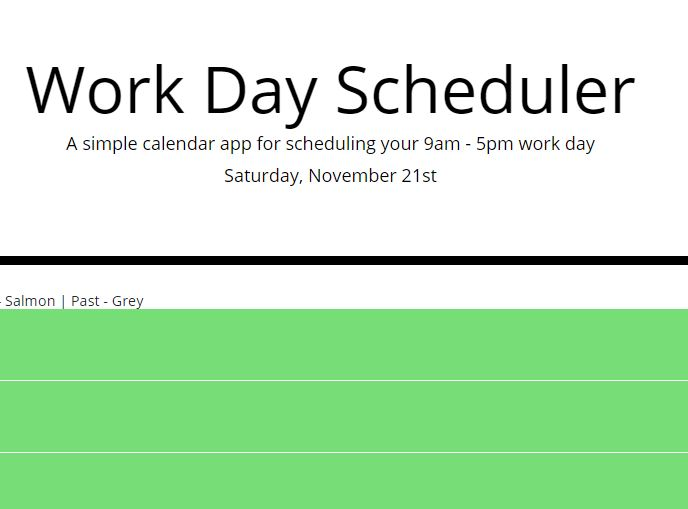
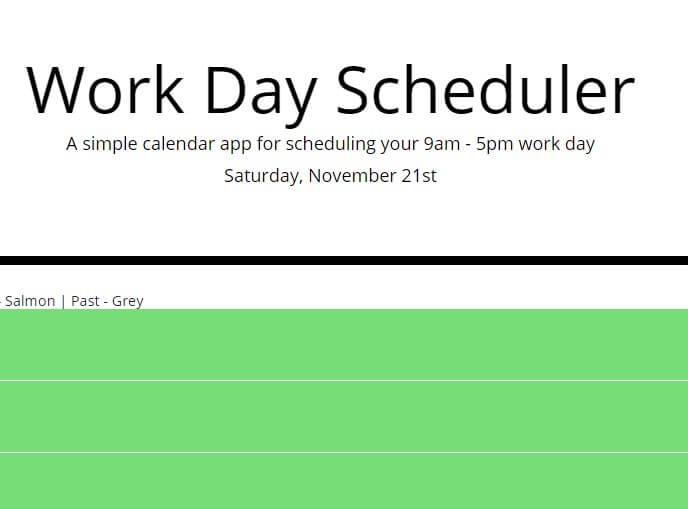
compressed pictures and made changes to links for that open new tabs

diff --git a/index.html b/index.html
@@ -1,98 +1,60 @@
 <!DOCTYPE html>
-<html lang="en-us">
+<html lang=en-us>
 
 <head>
-  <link rel="stylesheet" href="https://meyerweb.com/eric/tools/css/reset/reset.css">
-  <link rel="stylesheet" href="https://stackpath.bootstrapcdn.com/bootstrap/4.5.2/css/bootstrap.min.css"
-    integrity="sha384-JcKb8q3iqJ61gNV9KGb8thSsNjpSL0n8PARn9HuZOnIxN0hoP+VmmDGMN5t9UJ0Z" crossorigin="anonymous">
-  <link rel="stylesheet" href="assets/style.css">
-  <link href="https://fonts.googleapis.com/css2?family=Shrikhand&display=swap" rel="stylesheet">
-  <!-- Required meta tags -->
-  <meta charset="utf-8">
-  <meta name="viewport" content="width=device-width, initial-scale=1.0">
-  <title>WELCOME</title>
+    <link rel=stylesheet href=https://meyerweb.com/eric/tools/css/reset/reset.css>
+    <link rel=stylesheet href=https://stackpath.bootstrapcdn.com/bootstrap/4.5.2/css/bootstrap.min.css
+        integrity=sha384-JcKb8q3iqJ61gNV9KGb8thSsNjpSL0n8PARn9HuZOnIxN0hoP+VmmDGMN5t9UJ0Z crossorigin=anonymous>
+    <link rel=stylesheet href=assets/style.css>
+    <link href="https://fonts.googleapis.com/css2?family=Shrikhand&display=swap" rel=stylesheet>
+    <meta charset=utf-8>
+    <meta name=viewport content="width=device-width, initial-scale=1.0">
+    <title>WELCOME</title>
 </head>
 
 <body>
-  <!--NAVGATION BAR added ml-auto to have link on the right of the page-->
-  <nav class="navbar fixed-top navbar-expand-lg navbar-dark bg-info">
-    <!--have to add style to overide color bg for navbar-brand-->
-    <!-- <a class="navbar-brand" href="index.html"></a>
-    <button class="navbar-toggler" type="button" data-toggle="collapse" data-target="#navbarNavAltMarkup"
-      aria-controls="navbarNavAltMarkup" aria-expanded="false" aria-label="Toggle navigation">
-      <span class="navbar-toggler-icon"></span>
-    </button>
-    <div class="collapse navbar-collapse" id="navbarNavAltMarkup">
-      <div class="navbar-nav ml-auto">
-        <a class="nav-link" href="contact.html">CONTACT </a>
-        <a class="nav-link" href="portfolio.html">PORTFOLIO</a>
-        active class make sure user is in the current and active link
-        <a class="nav-link active" href="aboutme.html">ABOUT <span class="sr-only">(current)</span></a>
-        <a class="nav-link disabled" href="#" tabindex="-1" aria-disabled="true"></a>
-      </div>
-    </div>-->
-  </nav>
-  <!--CONTENT-->
-  <div class = "container welcome">
-    <h2>Hello! I'm<span>JR,</span></h2>
-    <span class ="text2">Take a Look Around</span>
-    <br>
-    <!--GLASSES ICON-->
-    <div class="dropdown">
-      <button class="dropbtn">
-        <svg xmlns="http://www.w3.org/2000/svg" width="50" height="50" fill="currentColor" class="bi bi-eyeglasses"
-          viewBox="0 0 16 16">
-          <path
-            d="M4 6a2 2 0 1 1 0 4 2 2 0 0 1 0-4zm2.625.547a3 3 0 0 0-5.584.953H.5a.5.5 0 0 0 0 1h.541A3 3 0 0 0 7 8a1 1 0 0 1 2 0 3 3 0 0 0 5.959.5h.541a.5.5 0 0 0 0-1h-.541a3 3 0 0 0-5.584-.953A1.993 1.993 0 0 0 8 6c-.532 0-1.016.208-1.375.547zM14 8a2 2 0 1 1-4 0 2 2 0 0 1 4 0z" />
-        </svg>
-        <div class="dropdown-content">
-          <a  href="aboutme.html">ABOUT ME </a>
-          <a href="portfolio.html">PORTFOLIO</a>
-          <a href="resume.html">RESUME</a>
+    <nav class="navbar fixed-top navbar-expand-lg navbar-dark bg-info">
+    </nav>
+    <div class="container welcome">
+        <h2>Hello! I'm<span>JR,</span></h2>
+        <span class=text2>Take a Look Around</span>
+        <br>
+        <div class=dropdown>
+            <button class=dropbtn>
+                <svg xmlns=http://www.w3.org/2000/svg width=50 height=50 fill=currentColor class="bi bi-eyeglasses"
+                    viewBox="0 0 16 16">
+                    <path
+                        d="M4 6a2 2 0 1 1 0 4 2 2 0 0 1 0-4zm2.625.547a3 3 0 0 0-5.584.953H.5a.5.5 0 0 0 0 1h.541A3 3 0 0 0 7 8a1 1 0 0 1 2 0 3 3 0 0 0 5.959.5h.541a.5.5 0 0 0 0-1h-.541a3 3 0 0 0-5.584-.953A1.993 1.993 0 0 0 8 6c-.532 0-1.016.208-1.375.547zM14 8a2 2 0 1 1-4 0 2 2 0 0 1 4 0z" />
+                </svg>
+                <div class=dropdown-content>
+                    <a href=aboutme.html>ABOUT ME </a>
+                    <a href=portfolio.html>PORTFOLIO</a>
+                    <a href=resume.html>RESUME</a>
+                </div>
+            </button>
         </div>
-      </button>
     </div>
-
-  </div>
-  
-
 </body>
-
-<!--FOOTER  -->
-<footer class="footer text-center fixed-bottom mt-auto bg-info ">
-  <div class="mt-1 navbar-dark bg-light">
-    <footer class="footer-copyright my-auto bg-info">&#169 Copyright
-      <a class="navbar-brand bg-info" href="https://github.com/Jruuuu/">
-        <img src="assets/images/GitHub-Mark-Light-32px.png" alt="github icon" loading="lazy">
-      </a>
-      <a class="navbar-brand bg-info" href="https://www.linkedin.com/in/enrilo-ugalde">
-        <img src="assets/images/LI-In-Bug.png" alt="linkedin icon" loading="lazy">
-      </a>
-      <a class="navbar-brand bg-info" href="https://www.instagram.com/jruuuu/">
-        <img src="assets/images/Instagram.png" alt="instagram icon" loading="lazy">
-      </a>
-    </footer>
-  </div>
+<footer class="footer text-center fixed-bottom mt-auto bg-info">
+    <div class="mt-1 navbar-dark bg-light">
+        <footer class="footer-copyright my-auto bg-info">&#169 Copyright
+            <a class="navbar-brand bg-info" href=https://github.com/Jruuuu target="_blank">
+            <img src=assets/images/GitHub-Mark-Light-32px.png alt="github icon" loading=lazy>
+            </a>
+            <a class="navbar-brand bg-info" href=https://www.linkedin.com/in/enrilo-ugalde target="_blank">
+                <img src=assets/images/LI-In-Bug.png alt="linkedin icon" loading=lazy>
+            </a>
+            <a class="navbar-brand bg-info" href=https://www.instagram.com/jruuuu target="_blank"> 
+            <img src=assets/images/Instagram.png alt="instagram icon" loading=lazy>
+            </a>
+        </footer>
+    </div>
 </footer>
-
-
-
-
-
-
-<!-- is required for drop menus -->
-<script src="https://code.jquery.com/jquery-3.5.1.slim.min.js"
-  integrity="sha384-DfXdz2htPH0lsSSs5nCTpuj/zy4C+OGpamoFVy38MVBnE+IbbVYUew+OrCXaRkfj" crossorigin="anonymous"></script>
-<script src="https://cdn.jsdelivr.net/npm/popper.js@1.16.1/dist/umd/popper.min.js"
-  integrity="sha384-9/reFTGAW83EW2RDu2S0VKaIzap3H66lZH81PoYlFhbGU+6BZp6G7niu735Sk7lN" crossorigin="anonymous"></script>
-<script src="https://stackpath.bootstrapcdn.com/bootstrap/4.5.2/js/bootstrap.min.js"
-  integrity="sha384-B4gt1jrGC7Jh4AgTPSdUtOBvfO8shuf57BaghqFfPlYxofvL8/KUEfYiJOMMV+rV" crossorigin="anonymous"></script>
-
-
-
-
-
-
-
+<script src=https://code.jquery.com/jquery-3.5.1.slim.min.js
+    integrity=sha384-DfXdz2htPH0lsSSs5nCTpuj/zy4C+OGpamoFVy38MVBnE+IbbVYUew+OrCXaRkfj crossorigin=anonymous></script>
+<script src=https://cdn.jsdelivr.net/npm/popper.js@1.16.1/dist/umd/popper.min.js
+    integrity=sha384-9/reFTGAW83EW2RDu2S0VKaIzap3H66lZH81PoYlFhbGU+6BZp6G7niu735Sk7lN crossorigin=anonymous></script>
+<script src=https://stackpath.bootstrapcdn.com/bootstrap/4.5.2/js/bootstrap.min.js
+    integrity=sha384-B4gt1jrGC7Jh4AgTPSdUtOBvfO8shuf57BaghqFfPlYxofvL8/KUEfYiJOMMV+rV crossorigin=anonymous></script>
 
 </html>

diff --git a/resume.html b/resume.html
@@ -83,13 +83,13 @@
 <footer class="footer text-center fixed-bottom mt-auto bg-info ">
   <div class="mt-1 navbar-dark bg-light">
     <footer class="footer-copyright my-auto bg-info">&#169 Copyright
-      <a class="navbar-brand bg-info" href="https://github.com/Jruuuu/">
+      <a class="navbar-brand bg-info" href="https://github.com/Jruuuu/"target="_blank">
         <img src="assets/images/GitHub-Mark-Light-32px.png" alt="github icon" loading="lazy">
       </a>
-      <a class="navbar-brand bg-info" href="https://www.linkedin.com/in/enrilo-ugalde">
+      <a class="navbar-brand bg-info" href="https://www.linkedin.com/in/enrilo-ugalde"target="_blank">
         <img src="assets/images/LI-In-Bug.png" alt="linkedin icon" loading="lazy">
       </a>
-      <a class="navbar-brand bg-info" href="https://www.instagram.com/jruuuu/">
+      <a class="navbar-brand bg-info" href="https://www.instagram.com/jruuuu/" target="_blank">
         <img src="assets/images/Instagram.png" alt="instagram icon" loading="lazy">
       </a>
     </footer>

diff --git a/aboutme.html b/aboutme.html
@@ -96,13 +96,13 @@
 <footer class="footer text-center fixed-bottom mt-auto bg-info ">
   <div class="mt-1 navbar-dark bg-light">
     <footer class="footer-copyright my-auto bg-info">&#169 Copyright
-      <a class="navbar-brand bg-info" href="https://github.com/Jruuuu/">
+      <a class="navbar-brand bg-info" href="https://github.com/Jruuuu/"target="_blank">
         <img src="assets/images/GitHub-Mark-Light-32px.png" alt="github icon" loading="lazy">
       </a>
-      <a class="navbar-brand bg-info" href="https://www.linkedin.com/in/enrilo-ugalde">
+      <a class="navbar-brand bg-info" href="https://www.linkedin.com/in/enrilo-ugalde"target="_blank">
         <img src="assets/images/LI-In-Bug.png" alt="linkedin icon" loading="lazy">
       </a>
-      <a class="navbar-brand bg-info" href="https://www.instagram.com/jruuuu/">
+      <a class="navbar-brand bg-info" href="https://www.instagram.com/jruuuu/"target="_blank">
         <img src="assets/images/Instagram.png" alt="instagram icon" loading="lazy">
       </a>
     </footer>
